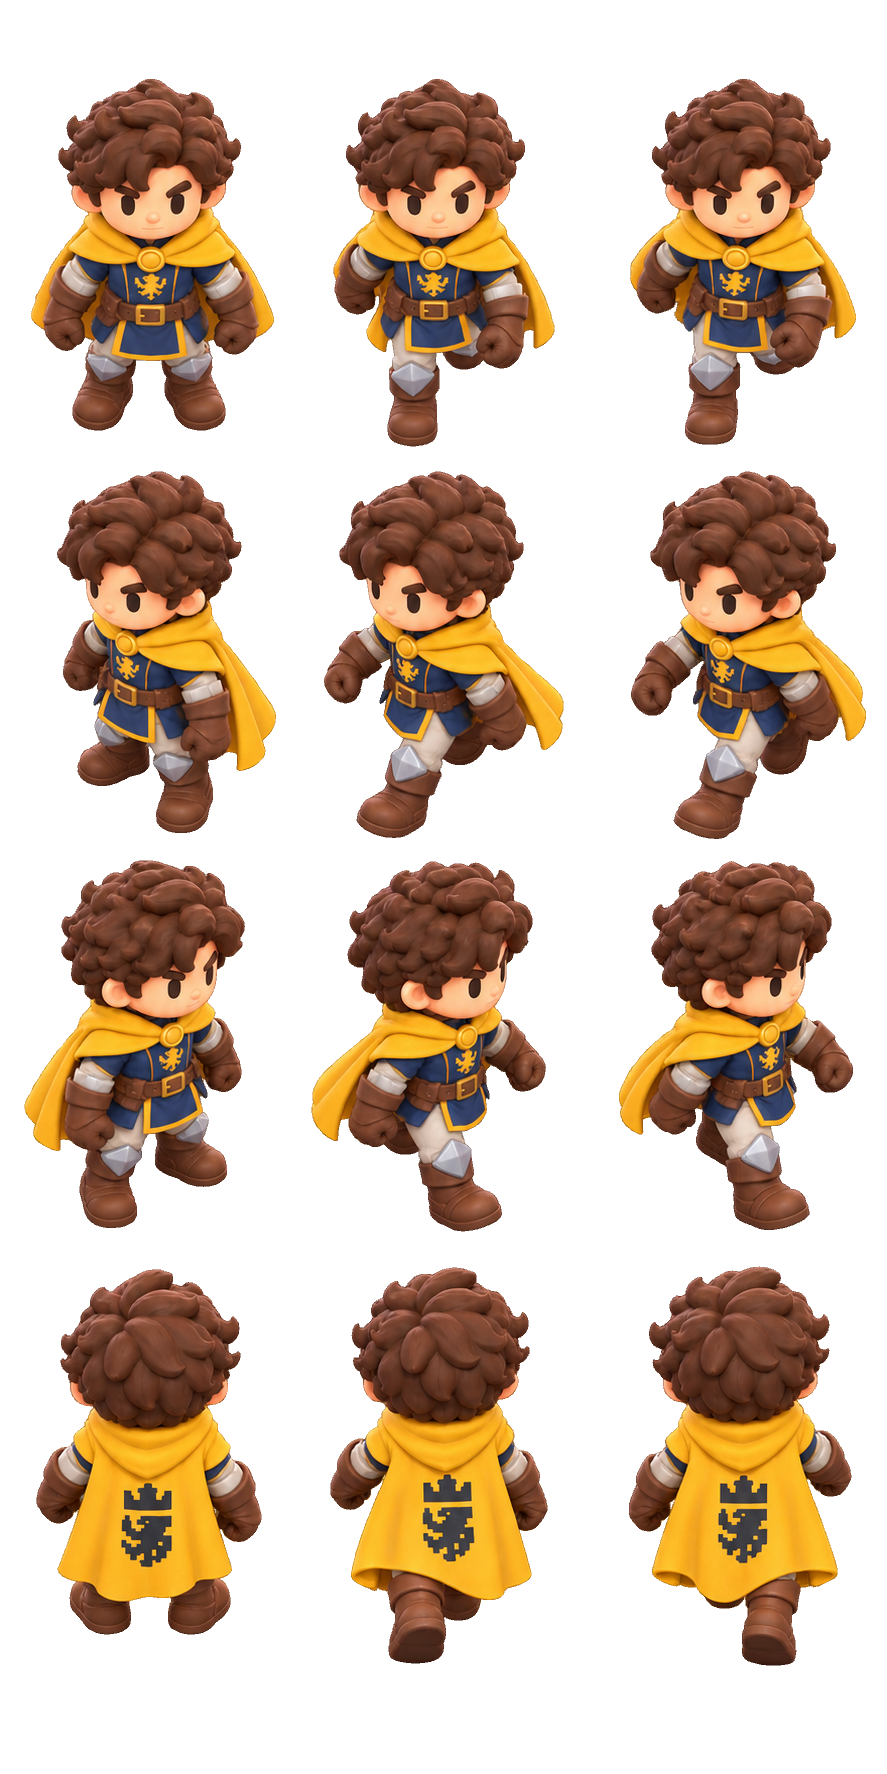
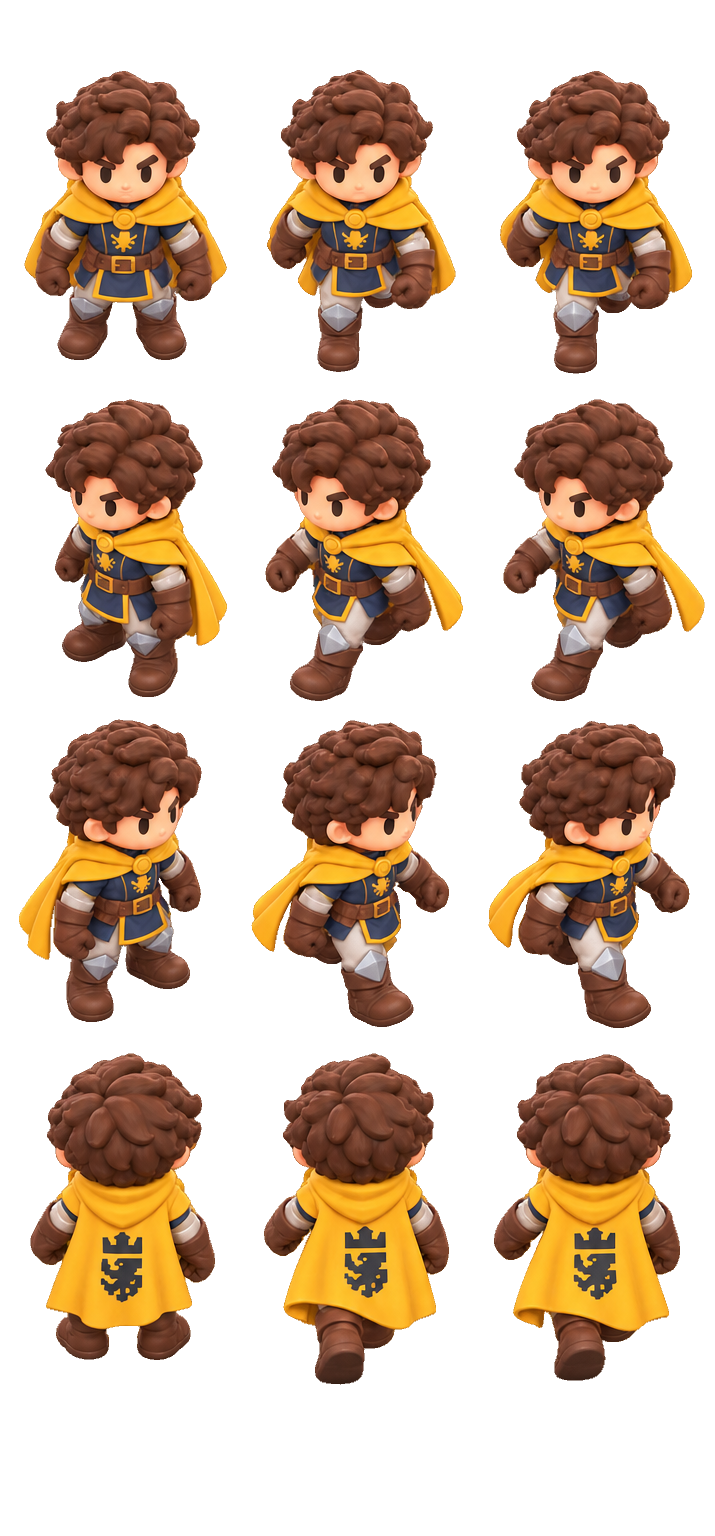
Ataque do Sir Thomas (arte do usuário), fundo removido mantendo o brilho da espada

diff --git a/src/assets.js b/src/assets.js
@@ -31,9 +31,9 @@ export const Assets = {
   // name may be a list: the first existing image wins (new three-quarter art, then the older front-view art, then the code drawing)
   src(name, fallback) { if (Array.isArray(name)) { for (const n of name) if (this.images[n]) return this.images[n]; return fallback; } return this.images[name] || fallback; },
   // walking frames of a character sheet, sliced once and shared: { down: [stand, left, right], left: [...], right: [...], up: [...] }
-  anim(name, targetH = 64, smooth = false) { const k = name + '@' + targetH + (smooth ? 's' : ''); if (!(k in this.frames)) this.frames[k] = this.images[name] ? sliceAnimSheet(this.images[name], targetH, 3, 4, smooth) : null; return this.frames[k]; },
+  anim(name, targetH = 64, smooth = false, cols = 3) { const k = name + '@' + targetH + (smooth ? 's' : '') + cols; if (!(k in this.frames)) this.frames[k] = this.images[name] ? sliceAnimSheet(this.images[name], targetH, cols, 4, smooth) : null; return this.frames[k]; },
   // HD painted sheets (big images) stay smooth at high resolution; old pixel-art sheets keep their pixel grid
-  animAuto(name) { const img = this.images[name]; return img && img.height > 1000 ? this.anim(name, 512, true) : this.anim(name, 64); },
+  animAuto(name, cols = 3) { const img = this.images[name]; return img && img.height > 1000 ? this.anim(name, 512, true, cols) : this.anim(name, 64, false, cols); },
   texture(name, fallback, { repeat = 1, repeatY = null, wrap = true, mips = true } = {}) {
     const src = this.images[name] || fallback; const t = new THREE.Texture(src); t.needsUpdate = true;
     t.magFilter = THREE.LinearFilter; t.minFilter = mips ? THREE.LinearMipmapLinearFilter : THREE.LinearFilter; t.generateMipmaps = mips;   // smooth, painted look (Shop Titans) instead of hard pixels

diff --git a/src/player.js b/src/player.js
@@ -28,7 +28,7 @@ export class Player {
     this.h = 1.9; this.w = this.h * src.width / src.height; this.mesh = makeBillboard(src, this.w, this.h, true); this.mesh.material.depthTest = false; this.mesh.renderOrder = 20; game.scene.add(this.mesh);   // always visible, even behind roofs and trees
     this.walker = new Walker(this.mesh, frames); this.running = false;
     // optional extra sheets in the same 4-direction layout: attack (3 frames: wind-up, strike, follow-through) and block
-    this.atkFrames = frames && Assets.has('sheet_thomas_attack') ? Assets.animAuto('sheet_thomas_attack') : null; this.blockFrames = frames && Assets.has('sheet_thomas_block') ? Assets.animAuto('sheet_thomas_block') : null;
+    this.atkFrames = frames && Assets.has('sheet_thomas_attack') ? Assets.animAuto('sheet_thomas_attack', Math.max(1, Math.round(Assets.images.sheet_thomas_attack.width / (Assets.images.sheet_thomas.width / 3)))) : null; this.blockFrames = frames && Assets.has('sheet_thomas_block') ? Assets.animAuto('sheet_thomas_block') : null;
     this.upp = frames ? this.h / frames.down[0].height : 0;   // world units per sprite pixel: every sheet keeps the same scale, whatever its cell size
     // 3D body (Diablo look): the KayKit knight, animated; the sprite stays as fallback when the model is missing
     const cm = CHAR_MODELS.thomas; this.actor = cm && Models.has(cm.model) ? new Actor(cm.model, { height: cm.h }) : null;
